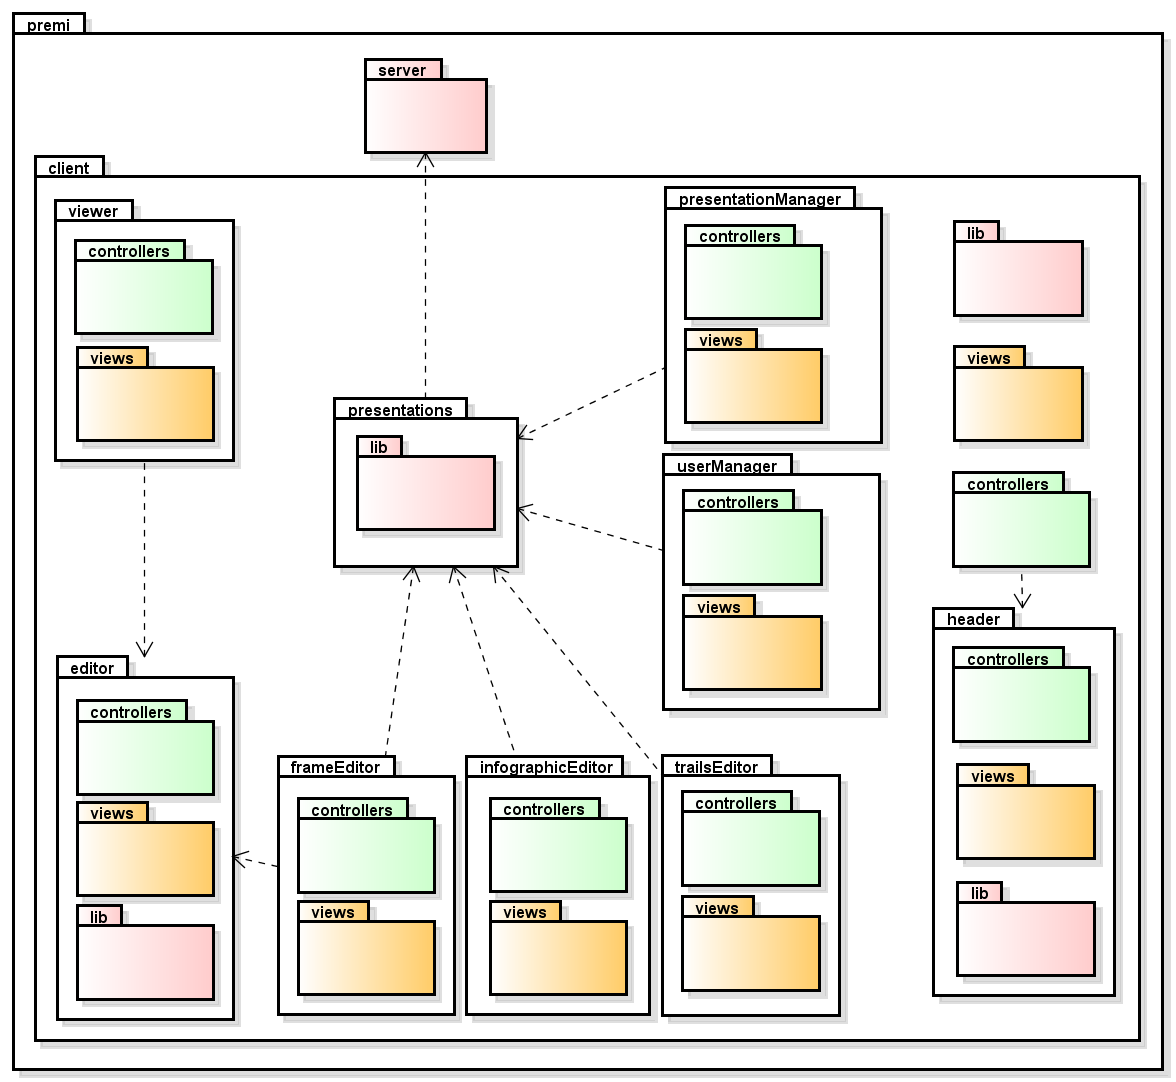
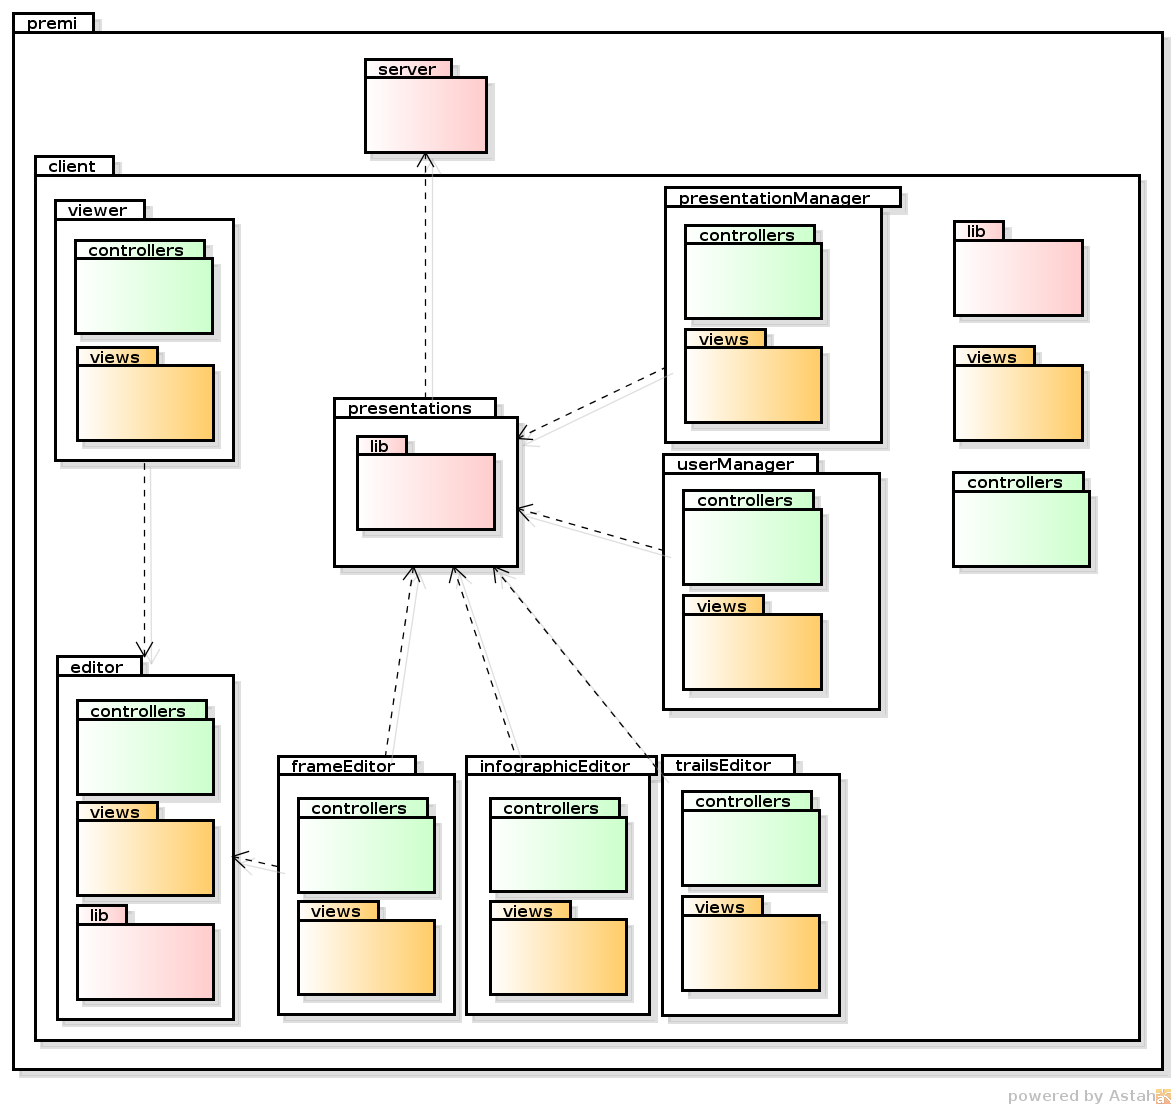
modificato header. Diventata un template nelle views di premi

diff --git a/Specifica Tecnica/documents/descr_componenti.tex b/Specifica Tecnica/documents/descr_componenti.tex
@@ -1,13 +1,4 @@
 \section{Descrizione dei singoli componenti}
-\subsubsection{premi/client}
-\begin{itemize}
-  \item[] \textbf{Nome:}
-  \item[] \textbf{Tipo:}
-  \item[] \textbf{Package:} 
-  \item[] \textbf{Descrizione:} 
-  \item[] \textbf{Relazioni con altri componenti:} 
-\end{itemize}
-
 
 \subsection{premi/server}
 \begin{figure}[h]
@@ -85,6 +76,13 @@
   \item[] \textbf{Descrizione:} template "contenitore" di supporto ad altre viste
 \end{itemize}
 
+\subsubsection{premi/client/views/header.ng}
+\begin{itemize}
+  \item[] \textbf{Nome:} header.ng
+  \item[] \textbf{Tipo:} template
+  \item[] \textbf{Package:} premi/client/views
+  \item[] \textbf{Descrizione:} template dell'header della pagina principale dell'applicazione
+\end{itemize}
 
 \subsubsection{premi/client/controllers/homeCtrl}
 \begin{itemize}
@@ -116,48 +114,6 @@
  \item \textit{premi/client/header/lib/Header} per la gestione dell'header della pagina principale
  \end{itemize}
 \end{itemize}
-
-
-
-\subsection{premi/client/header}
-
-\begin{figure}[h]
-\begin{center}
-\includegraphics[scale=0.45]{img/diapkg/header.png}
-\caption{Diagramma del package premi/client/header}
-\end{center}
-\end{figure}
-
-\subsubsection{premi/client/header/views/header.ng}
-\begin{itemize}
-  \item[] \textbf{Nome:} header.ng
-  \item[] \textbf{Tipo:} template
-  \item[] \textbf{Package:} premi/client/header/views
-  \item[] \textbf{Descrizione:} template dell'header della pagina principale dell'applicazione
-  \item[] \textbf{Relazioni con altri componenti:} a view generata da questo template è collegata allo \textit{\$scope} di premi/client/header/controllers/headerCtrl per l'aggiornamento in tempo reale dell'header
-\end{itemize}
-
-
-\subsubsection{premi/client/header/controllers/headerCtrl}
-\begin{itemize}
-  \item[] \textbf{Nome:} headerCtrl
-  \item[] \textbf{Tipo:} controller
-  \item[] \textbf{Package:} premi/client/header/controllers
-  \item[] \textbf{Descrizione:} controller di premi/client/header/views/header.ng
-  \item[] \textbf{Relazioni con altri componenti:} modella lo \textit{\$scope} per interagire con la view generata da premi/client/header/views/header.ng e dipende anche da:
- \begin{itemize}
- \item \textit{premi/client/header/lib/Header} per la creazione dell'header della pagina principale
- \end{itemize}
-\end{itemize}
-
-
-\subsubsection{premi/client/header/lib/Header}
-\begin{itemize}
-  \item[] \textbf{Nome:} Header
-  \item[] \textbf{Tipo:} class
-  \item[] \textbf{Package:} premi/client/header/lib
-  \item[] \textbf{Descrizione:} classe dell'header della pagina principale di Premi. Fornisce dei metodi per gestire la propria visualizzazione e per quella dello username, dello stato dell'applicazione e della barra di navigazione
-\end{itemize} 
 
 \subsection{premi/client/userManager}
 \begin{figure}[h]
